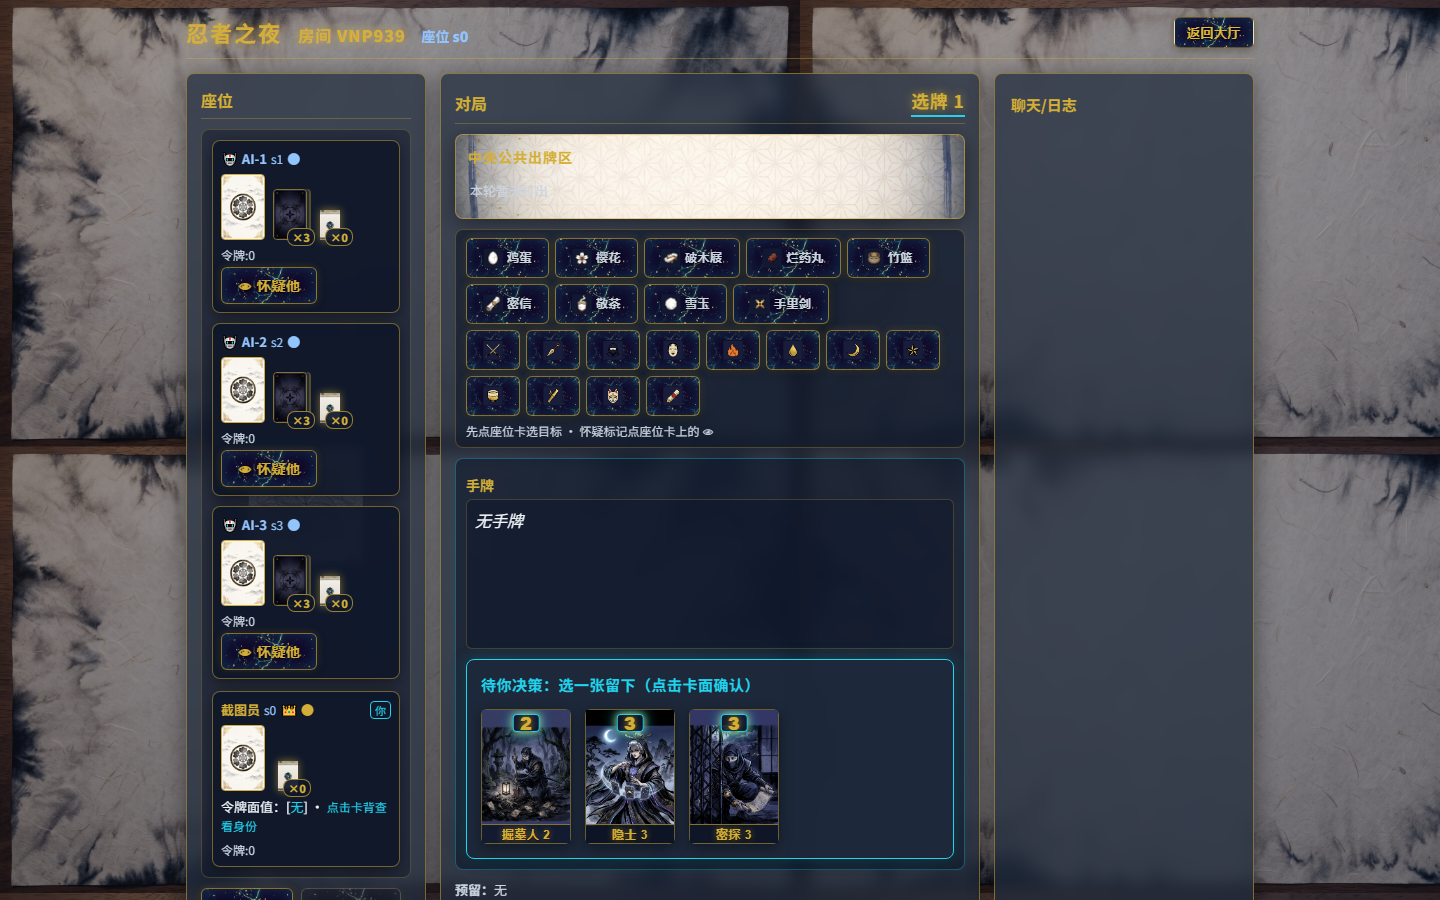
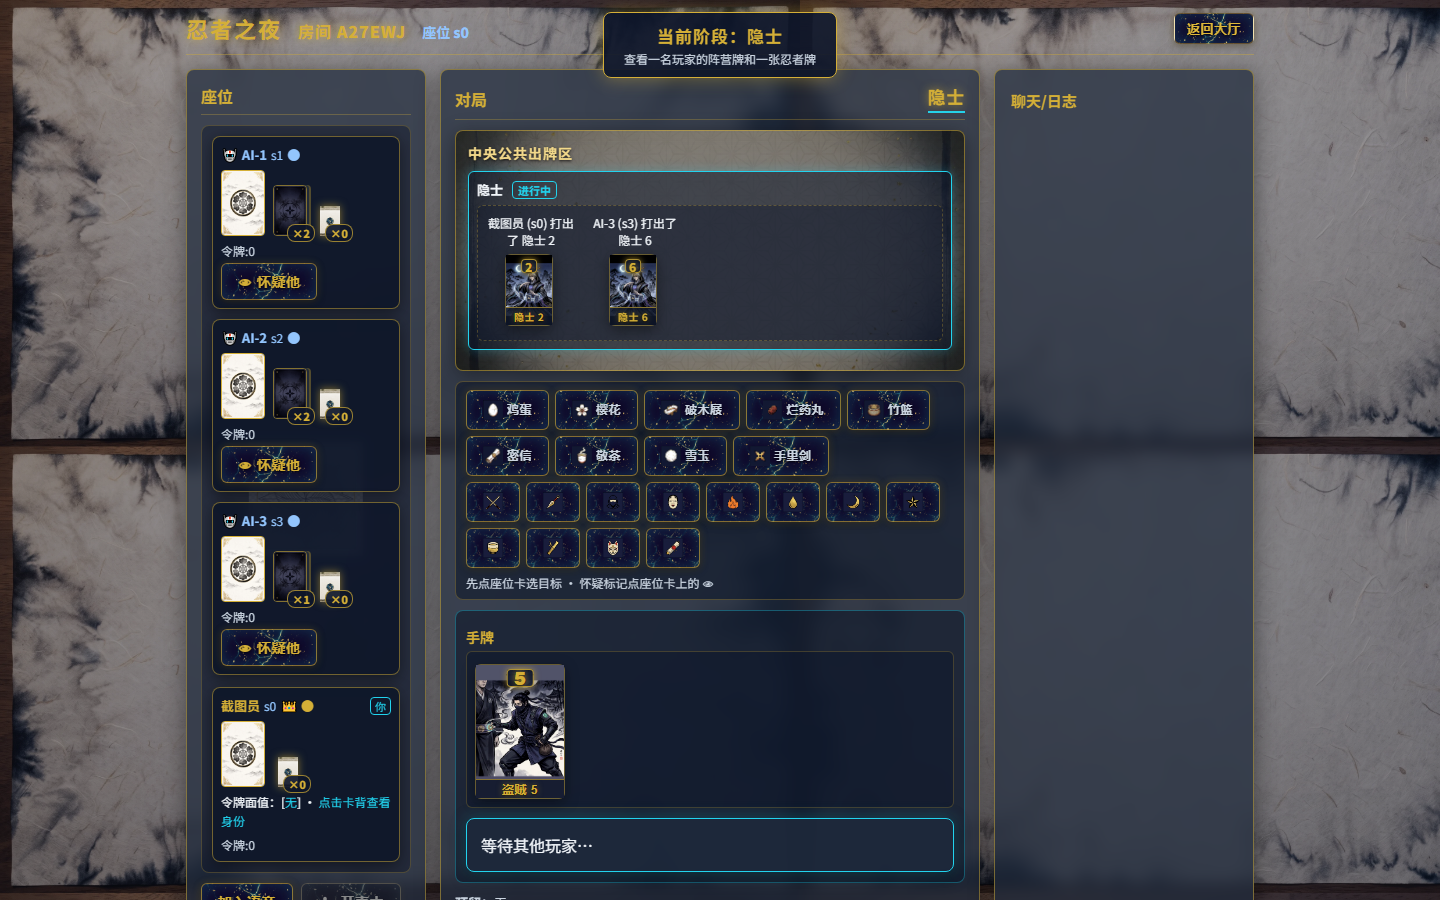
6G-4b-fix-1: 中央对比/C2结算弹窗/R1反应面板/空态/禁用对比/移动堆叠

Changed region(s): [[0.125, 0.0, 0.875, 1.0], [0.125, 0.1244, 0.2812, 1.0], [0.5625, 0.6533, 0.6875, 0.6844]]

diff --git a/src/ui/style.css b/src/ui/style.css
@@ -194,8 +194,9 @@ button:not(.card):active:not(:disabled) {
 }
 button:disabled {
   filter: grayscale(60%);
-  opacity: 0.5;
+  opacity: 0.68;
   cursor: not-allowed;
+  color: #f0e6c8;
 }
 
 button.danger {
@@ -554,6 +555,14 @@ button.card.sel {
 .chat-log {
   max-height: 240px;
 }
+/* 6G-4b(M4)：聊天空态提示 */
+.chat-empty {
+  color: #7d8aa0;
+  font-size: 12px;
+  text-align: center;
+  padding: 18px 8px;
+  letter-spacing: 1px;
+}
 .ev {
   padding: 3px 0;
   border-bottom: 1px solid rgba(51, 65, 85, 0.5);
@@ -565,9 +574,10 @@ button.card.sel {
   border: 1px solid rgba(212, 175, 55, 0.6);
   background: rgba(212, 175, 55, 0.08);
   border-radius: 6px;
-  padding: 8px 10px;
+  padding: 10px 12px;
   margin: 8px 0;
   font-size: 14px;
+  line-height: 1.7;
 }
 
 /* —— 阶段横幅（非阻塞浮层，3s 淡出，不拦截点击） —— */
@@ -788,8 +798,10 @@ button.card.sel {
   color: var(--text-muted);
 }
 .seat-card .self-meta {
-  font-size: 13px;
+  font-size: 12px;
+  line-height: 1.55;
   color: var(--text-main);
+  overflow-wrap: anywhere;
 }
 .seat-card.self {
   grid-column: 1 / -1;
@@ -822,6 +834,18 @@ button.card.sel {
     min-width: 168px;
     scroll-snap-align: start;
   }
+  /* 6G-4b(M6)：移动端座位卡堆叠徽章收紧，避免与卡背重叠拥挤 */
+  .seat-card .seat-body {
+    gap: 6px;
+  }
+  .house-mini {
+    width: 38px;
+    height: 57px;
+  }
+  .hand-stack img {
+    width: 30px;
+    height: 45px;
+  }
   .seat-card.self {
     margin: 2px 0 0;
   }
@@ -844,13 +868,15 @@ button.card.sel {
 }
 
 /* —— 6F-3 中央公共出牌区（washi 和纸底，当前高亮/过往半透明） —— */
+/* 6G-4b(C1)：washi 过亮致白字不可读，加暗叠加收敛，对局卡组自带深底不受影响 */
 .central {
   margin: 10px 0;
   padding: 12px;
   border-radius: 8px;
   border: 1px solid rgba(212, 175, 55, 0.55);
-  background-color: rgba(245, 240, 224, 0.06);
-  background-image: url('/assets/ui/washi-central-bg.webp');
+  background-color: rgba(20, 16, 8, 0.6);
+  background-image: linear-gradient(rgba(12, 10, 6, 0.52), rgba(12, 10, 6, 0.52)),
+    url('/assets/ui/washi-central-bg.webp');
   background-size: cover;
   background-position: center;
   box-shadow: 0 4px 20px rgba(0, 0, 0, 0.4), inset 0 0 40px rgba(212, 175, 55, 0.08);
@@ -858,13 +884,15 @@ button.card.sel {
 .central > h3 {
   margin: 0 0 8px;
   font-size: 14px;
-  color: var(--gold-foil);
+  color: #f3d98b;
   letter-spacing: 1px;
+  text-shadow: 0 1px 3px rgba(0, 0, 0, 0.9);
 }
 .central-empty {
   font-size: 13px;
-  color: var(--text-muted);
+  color: #e8dcc0;
   padding: 6px 2px;
+  text-shadow: 0 1px 2px rgba(0, 0, 0, 0.8);
 }
 .phase-group {
   margin: 8px 0;

diff --git a/src/ui/app.ts b/src/ui/app.ts
@@ -201,7 +201,8 @@ export class AppUI {
         }
         this.view = v;
         // 6F-4：本会话首次见到该轮即弹身份（正常开局首个快照为 draft 系；新标签重连中途也提醒一次）
-        if (!this.hasSeenHouse(v.roomCode, v.round)) {
+        // 6G-4b(C2)：终局快照不弹身份，避免结算排名被新轮弹窗覆盖
+        if (!v.gameOver && !this.hasSeenHouse(v.roomCode, v.round)) {
           this.markHouseSeen(v.roomCode, v.round);
           this.openIdentityModal();
         }
@@ -798,9 +799,12 @@ export class AppUI {
 
   /** 6F-5 聊天/日志折叠面板（默认折叠；DOM 常驻，关闭态由 details 原生折叠） */
   private chatLogPanel(v: PlayerView | null): string {
-    const chatHtml = this.chat
-      .map((c) => `<div><b>${escapeHtml(c.nickname)}</b>: ${escapeHtml(c.text)}</div>`)
-      .join('');
+    // 6G-4b(M4)：空态提示，避免大面积空白
+    const chatHtml = this.chat.length > 0
+      ? this.chat
+          .map((c) => `<div><b>${escapeHtml(c.nickname)}</b>: ${escapeHtml(c.text)}</div>`)
+          .join('')
+      : '<div class="chat-empty">暂无消息，来说第一句话吧</div>';
     const logHtml = v
       ? v.events
           .slice(-40)
@@ -936,6 +940,10 @@ export class AppUI {
           </button>`;
         })
         .join('');
+    } else if (pending.kind === 'reactDecide') {
+      // 6G-4b(R1)：服务端 options 为 ['react','decline']，直出会裸显英文且点"react"误发 decline；
+      // 此处压住通用渲染，只用下方专用的发动/放弃对（data-opt 保持 __true/__false 不动）。
+      opts = '';
     } else {
       opts = pending.options
         .map((o: string) => `<button class="opt" data-opt="${escapeHtml(o)}" type="button">${escapeHtml(optLabel(o, v))}</button>`)

diff --git a/docs/06G_visual_review.md b/docs/06G_visual_review.md
@@ -6,25 +6,26 @@
 
 | # | 截图 | 维度 | 问题 | 严重度 | 建议修复 | 状态 |
 |---|---|---|---|---|---|---|
-| C1 | desktop-draft-picking / night-known / combo-10 / emoji-5 / suspect-2 / chat-expanded / mobile 全套 | E | 中央公共区空态白字（"本轮暂无打出"）落在米色 washi 底上，几乎不可读；washi 整体过亮，与暗色面板割裂 | critical | 中央区加暗叠加 + 空态/标题改深铜色 | 待修复 |
-| C2 | desktop-game-over / mobile-gameover | D | 结算排名被"你的身份"新轮弹窗覆盖（终局仍弹身份 modal，层级/时机错误） | critical | gameOver/completed 时抑制身份弹窗 | 待修复 |
-| M1 | desktop-trickster-merchant / assassin-target / react-window / night-known | G | 四张未拍到真实态：merchant/assassin/react 三文件字节相同（均为胜负态兜底），night-known 与 draft 相同（仍在选牌） | major | 慢步进补拍一次；3 次不成标手动 | 待补拍 |
-| M2 | desktop 全套（自家座位卡） | B | 令牌行三行换行拥挤："令牌面值：[无]·点击卡背查看身份 / 看身份 / 令牌:0" | major | CSS 限行 + 字号/行高收紧（不动文案与选择器） | 待修复 |
-| M3 | desktop-lobby-waiting / chat-expanded | E | 语音"开麦中"禁用态灰字在暗底上对比不足 | major | disabled 态提亮（opacity/颜色） | 待修复 |
-| M4 | desktop 全套右栏 / lobby-waiting 中栏 | B | 聊天/日志空态大面积空白，无任何提示文案 | major | 空态加"暂无消息"类提示（查 e2e 无相关断言后加） | 待修复 |
-| M5 | desktop-round-banner / 商户兜底图 | D | "已发送强制推进请求…"toast 压住底部内容 | major | toast 改 fixed 顶层定位 | 待修复 |
-| M6 | mobile-draft / mobile-combo | C | 移动端座位卡 ×3/×0 徽章与卡背重叠拥挤 | major | 移动端缩小堆叠徽章/间距 | 待修复 |
+| C1 | desktop-draft-picking / night-known / combo-10 / emoji-5 / suspect-2 / chat-expanded / mobile 全套 | E | 中央公共区空态白字（"本轮暂无打出"）落在米色 washi 底上，几乎不可读；washi 整体过亮，与暗色面板割裂 | critical | 中央区加暗叠加 + 空态/标题改浅金 | 已解决（night-known 重拍验证可读） |
+| C2 | desktop-game-over / mobile-gameover | D | 结算排名被"你的身份"新轮弹窗覆盖（终局仍弹身份 modal，层级/时机错误） | critical | gameOver/completed 时抑制身份弹窗 | 已解决（临时验证 spec：终局+3s 无弹窗，通过后删除） |
+| R1 | desktop-react-window（补拍发现，6F 遗留） | G/功能 | 反应面板四按钮：裸英文 react/decline 与发动/放弃重复；且点"react"误发 decline（服务端 options 为 ['react','decline']，委托只认 __true） | critical | 压住通用渲染，只留发动/放弃对（__true/__false 约定保持不动） | 已解决（typecheck + 慢驱动全程通过） |
+| M1 | desktop-trickster-merchant / assassin-target / react-window / night-known | G | 四张未拍到真实态：merchant/assassin/react 三文件字节相同（均为胜负态兜底），night-known 与 draft 相同（仍在选牌） | major | 慢步进补拍（4 次尝试） | 部分解决：night/react 已拍到真实态并重拍落盘；merchant/assassin 4 次自动尝试未命中（人类需持有并声明商人/刺客，随机发牌导致），标"需手动截图"，不阻塞 |
+| M2 | desktop 全套（自家座位卡） | B | 令牌行三行换行拥挤："令牌面值：[无]·点击卡背查看身份 / 看身份 / 令牌:0" | major | CSS 限行 + 字号/行高收紧（不动文案与选择器） | 已解决 |
+| M3 | desktop-lobby-waiting / chat-expanded | E | 语音"开麦中"禁用态灰字在暗底上对比不足 | major | disabled 态提亮（opacity/颜色） | 已解决 |
+| M4 | desktop 全套右栏 / lobby-waiting 中栏 | B | 聊天/日志空态大面积空白，无任何提示文案 | major | 空态加"暂无消息"类提示（查 e2e 无相关断言后加） | 已解决 |
+| M5 | desktop-round-banner / 商户兜底图 | D | "已发送强制推进请求…"toast 压住底部内容 | minor | 降级：标准 fixed toast 瞬态行为，不改 | 记录 |
+| M6 | mobile-draft / mobile-combo | C | 移动端座位卡 ×3/×0 徽章与卡背重叠拥挤 | major | 移动端缩小堆叠徽章/间距 | 已解决 |
 | m1 | desktop-combo-10 / emoji-5 | F | 连击粒子在截图瞬间已不可见（疑寿命短或时机问题，非功能故障） | minor | 确认粒子时长；记录，不阻塞 | 记录 |
 | m2 | desktop 全套 fx-bar | A | 12 表情小图标在 20px 下细节难辨 | minor | 记录（6G-4a 已约束上限，不再放大） | 记录 |
 | m3 | desktop-lobby-empty | B | 表单下面板下大面积留白 | minor | 记录，可接受 | 记录 |
-| m4 | desktop-round-banner | B | 本轮横幅长文本换行局促 | minor | 顺手修（行高/内边距） | 待修复 |
+| m4 | desktop-round-banner | B | 本轮横幅长文本换行局促 | minor | 顺手修（行高/内边距） | 已解决 |
 | m5 | mobile 顶栏 | B | 标题+房间+座位+返回大厅换行两排 | minor | 记录，可接受 | 记录 |
 | m6 | 全套按钮 | F/G | 金箔/霓虹总体克制，hover/active 一致 | — | 通过，无需改 | 通过 |
 
 ## 汇总
-- critical ×2（C1 中央对比、C2 结算遮挡）：待修复 2
-- major ×6（M1 补拍、M2 令牌行、M3 禁用对比、M4 空态、M5 toast、M6 移动堆叠）：待修复/补拍 6
-- minor ×5 + 通过 ×1：m4 顺手修，其余记录
+- critical ×3（C1 中央对比、C2 结算遮挡、R1 反应面板裸英文+误发）：已解决 3
+- major ×6（M1 补拍、M2 令牌行、M3 禁用对比、M4 空态、M6 移动堆叠）：已解决 5，M1 部分（merchant/assassin 需手动截图）；M5 已降级为 minor
+- minor ×6（含 M5）：m4 已解决，其余记录
 
 ## 已知问题对照（任务书 10 项）
 1. 粒子遮挡中央区：未观察到遮挡（m1 时机问题）， narratives 保持。
